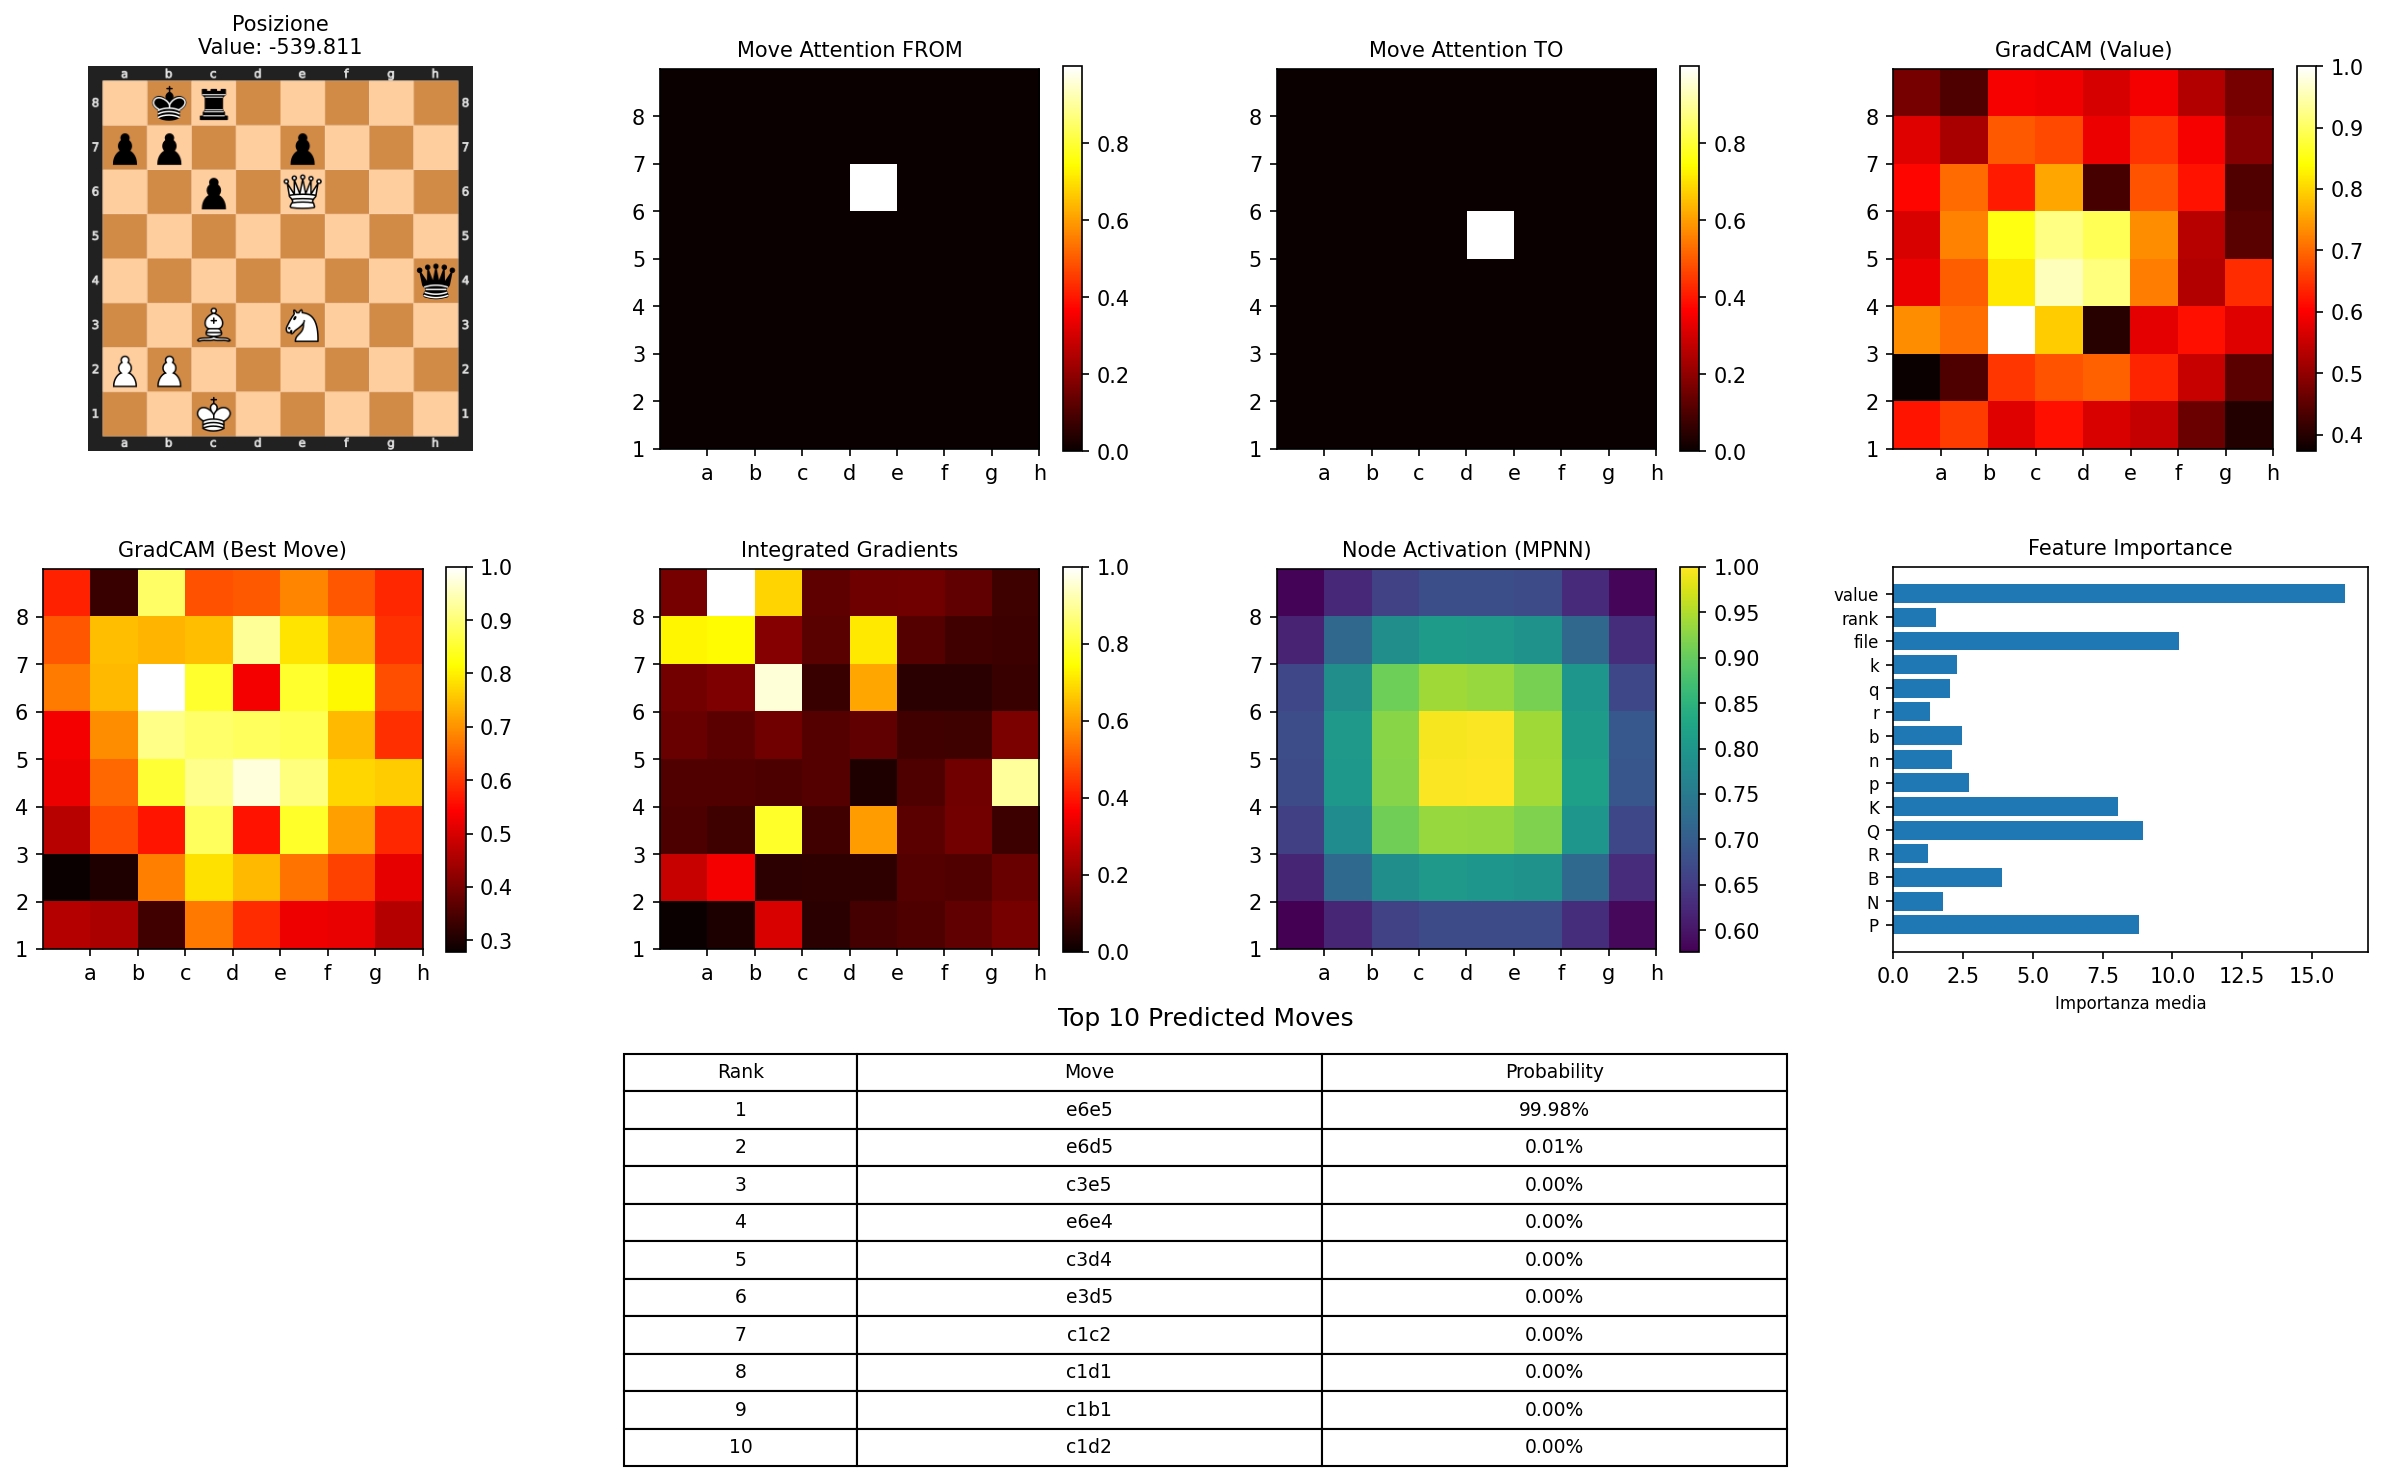
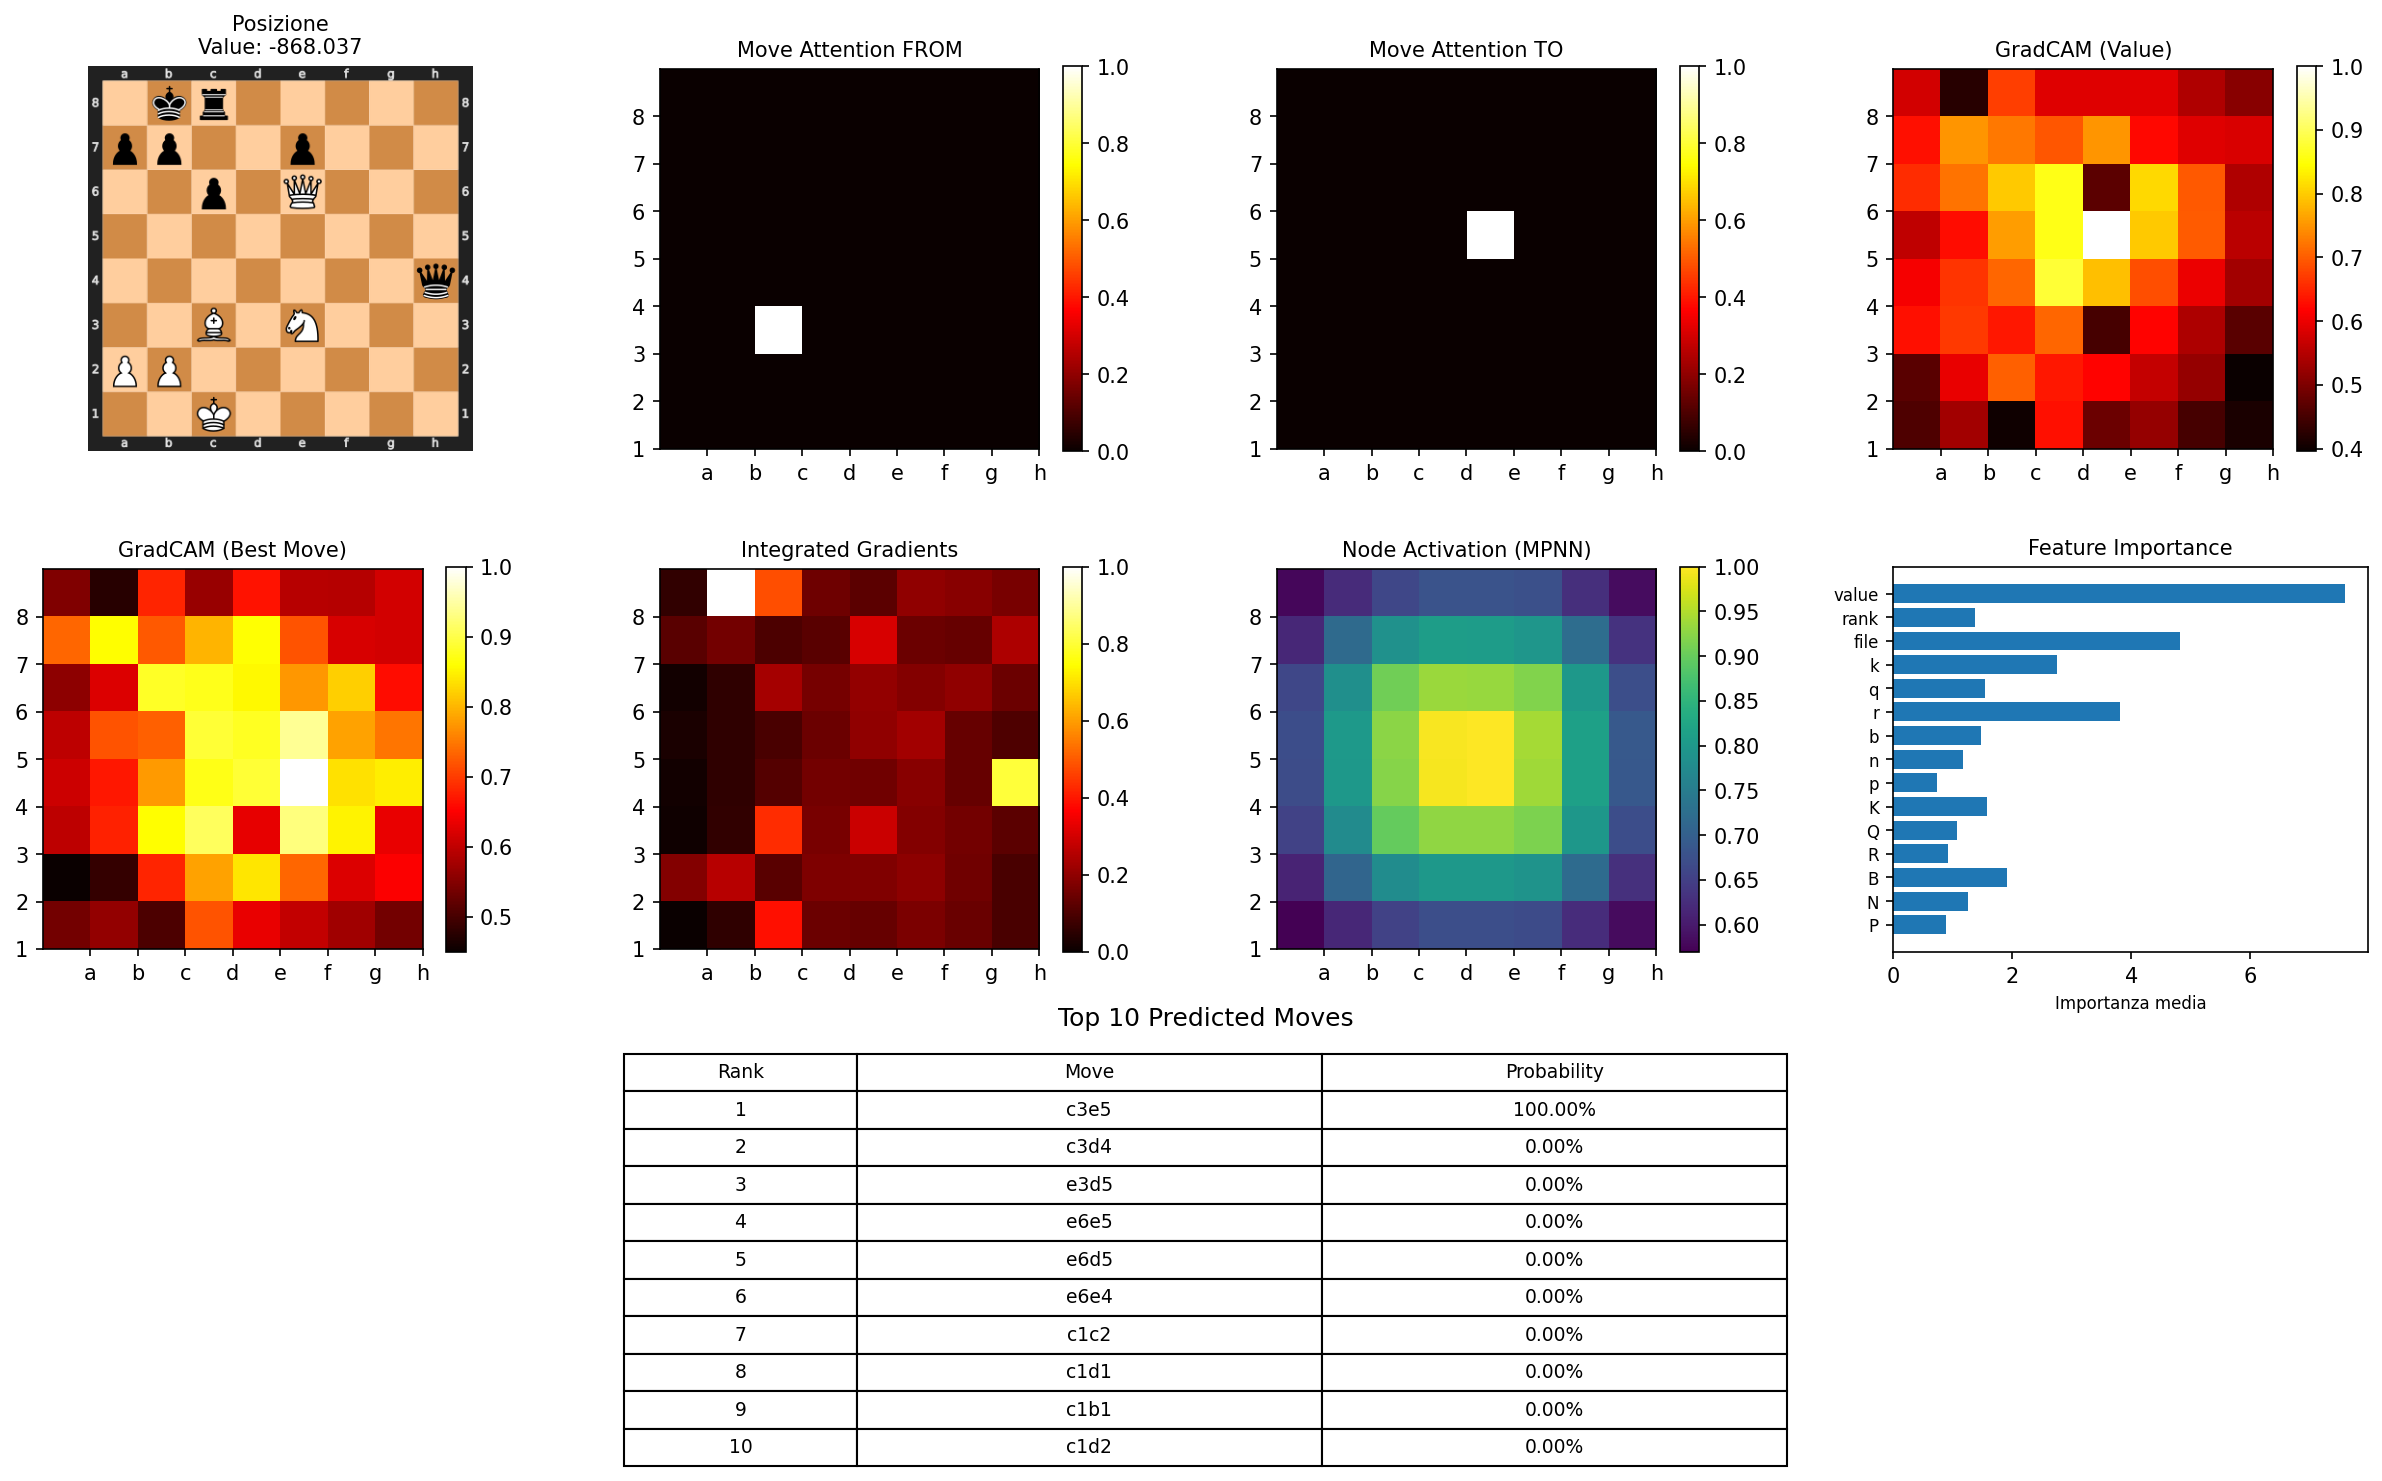
Training to the epoch 100. Draw to Martin for the first time, didn't deserve it

diff --git a/Explainer_tmp.py b/Explainer_tmp.py
@@ -43,7 +43,7 @@ class TestModelMPNN(nn.Module):
 # Carica il tuo modello
 model = TestModelMPNN(hidden_dim=256)
 
-checkpoint_load = torch.load('./MPNN/best_model.pt', weights_only=False)
+checkpoint_load = torch.load('./MPNN/epoch_100.pt', weights_only=False)
 model.load_state_dict(checkpoint_load["model_state"])
 
 # Crea explainer